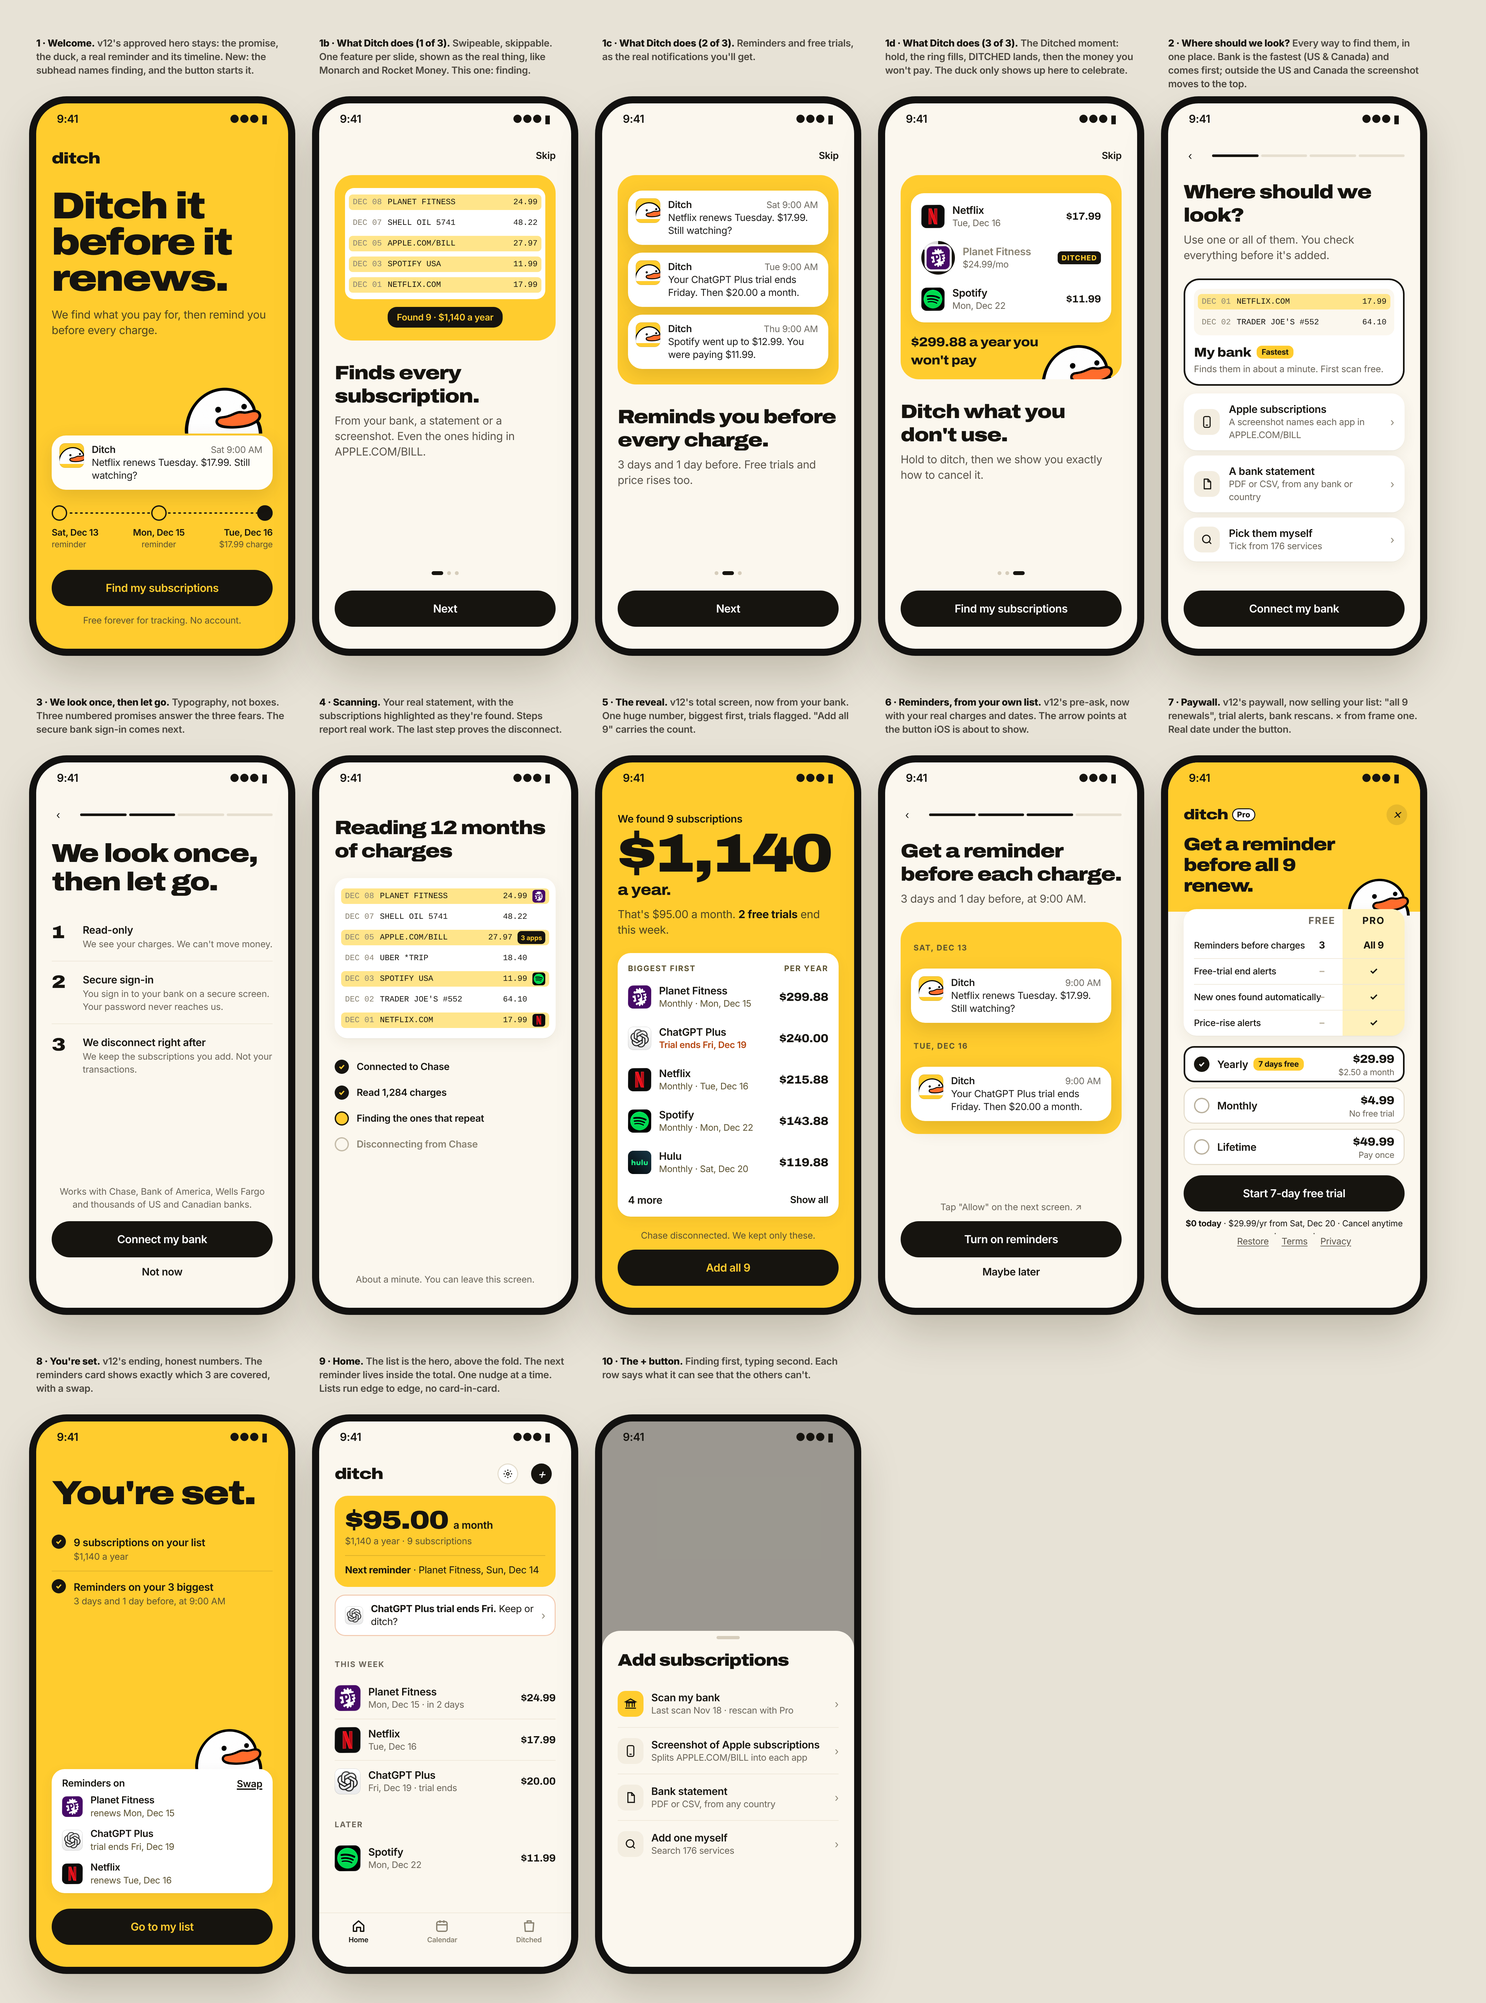
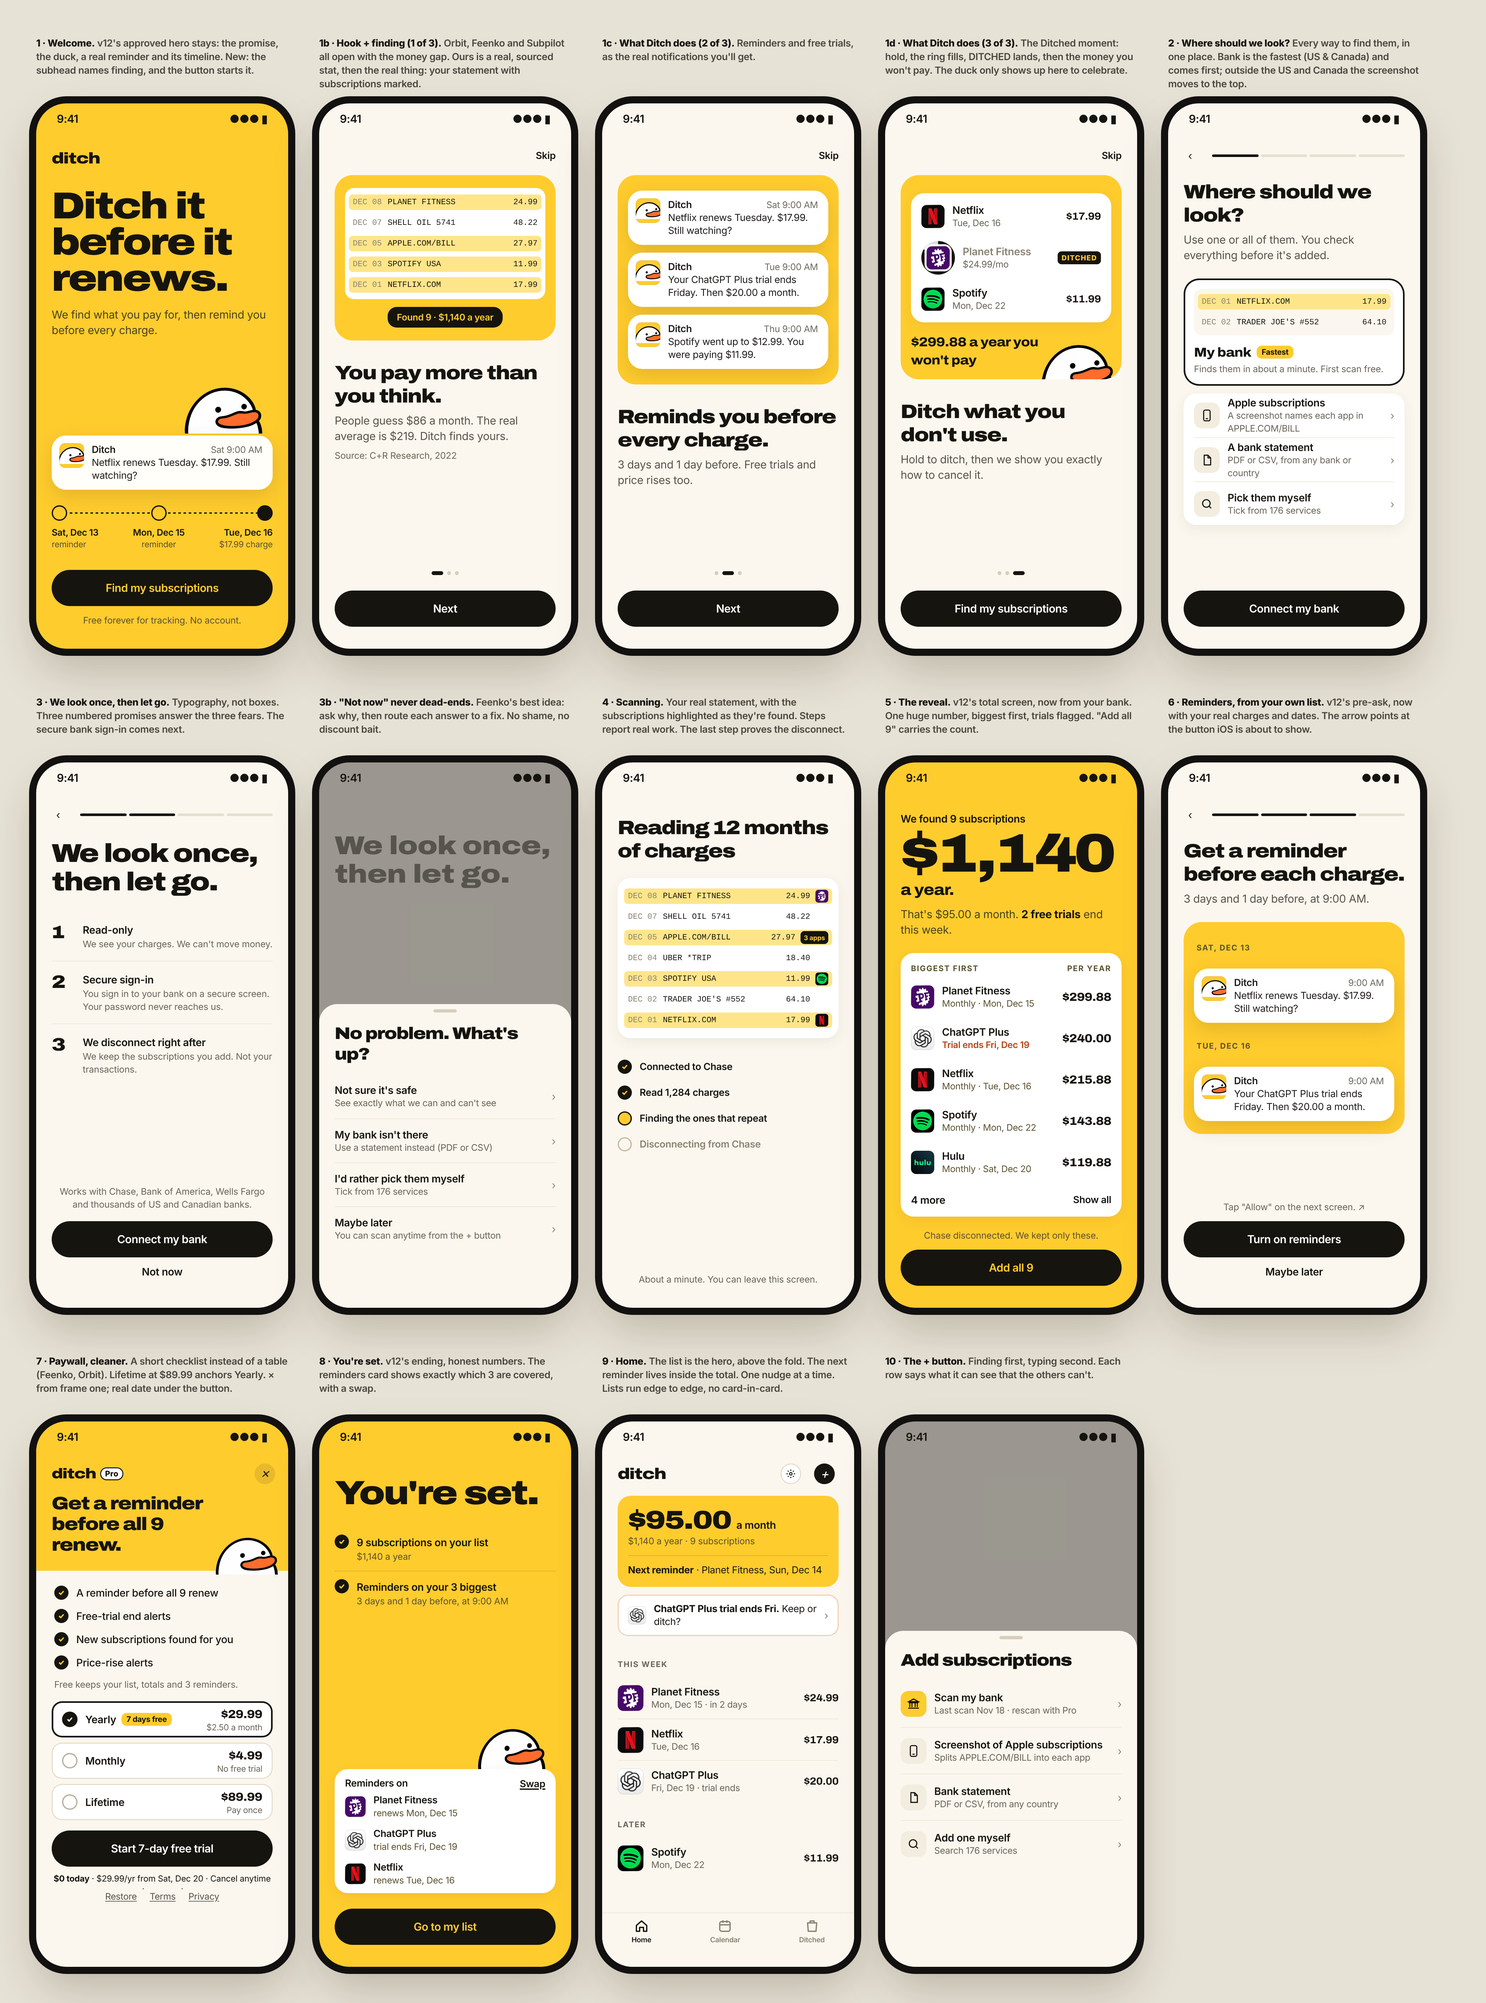
Design v16: AppKittie onboarding research applied (stat hook, exit sheet, checklist paywall, cleaner options); lifetime $89.99 (#65)
Claude-Session: https://claude.ai/code/session_01Q8GFjWCZXwnj2nAcxjTkxh

diff --git a/design/v16/mock.html b/design/v16/mock.html
@@ -76,7 +76,7 @@
 
 
 <!-- F1 -->
-<div class="cell"><div class="cap"><b>1b · What Ditch does (1 of 3).</b> Swipeable, skippable. One feature per slide, shown as the real thing, like Monarch and Rocket Money. This one: finding.</div>
+<div class="cell"><div class="cap"><b>1b · Hook + finding (1 of 3).</b> Orbit, Feenko and Subpilot all open with the money gap. Ours is a real, sourced stat, then the real thing: your statement with subscriptions marked.</div>
 <div class="phone i12 cream"><div class="sb"><span>9:41</span><span>●●● ▮</span></div><div class="scr">
  <div style="display:flex;justify-content:flex-end;height:44px;align-items:center"><span class="label">Skip</span></div>
  <div class="gap8"></div>
@@ -92,9 +92,11 @@
   <div style="display:flex;justify-content:center"><span class="pill" style="background:#16140F;color:#FFCC2E;height:32px;padding:0 14px;font-size:14px">Found 9 · $1,140 a year</span></div>
  </div>
  <div class="gap32"></div>
- <h1 class="title">Finds every subscription.</h1>
+ <h1 class="title">You pay more than you think.</h1>
  <div class="gap8"></div>
- <p class="lead">From your bank, a statement or a screenshot. Even the ones hiding in APPLE.COM/BILL.</p>
+ <p class="lead">People guess $86 a month. The real average is $219. Ditch finds yours.</p>
+ <div class="gap8"></div>
+ <p class="sub">Source: C+R Research, 2022</p>
  <div class="grow"></div>
  <div class="dots"><i class="on"></i><i></i><i></i></div>
  <div class="gap24"></div>
@@ -169,11 +171,10 @@
   <p class="sub" style="margin-top:2px">Finds them in about a minute. First scan free.</p>
  </div>
  <div class="gap12"></div>
- <div class="opt2"><span class="iconsq"><svg width="20" height="20" viewBox="0 0 24 24" fill="none" stroke="#16140F" stroke-width="2" stroke-linejoin="round"><rect x="6" y="2" width="12" height="20" rx="3"/><path d="M10 18h4"/></svg></span><div class="n"><b>Apple subscriptions</b><span>A screenshot names each app in APPLE.COM/BILL</span></div><span style="color:#8A8372">›</span></div>
- <div class="gap8"></div>
- <div class="opt2"><span class="iconsq"><svg width="20" height="20" viewBox="0 0 24 24" fill="none" stroke="#16140F" stroke-width="2" stroke-linejoin="round"><path d="M7 3h7l5 5v13H7z"/><path d="M14 3v5h5"/></svg></span><div class="n"><b>A bank statement</b><span>PDF or CSV, from any bank or country</span></div><span style="color:#8A8372">›</span></div>
- <div class="gap8"></div>
- <div class="opt2"><span class="iconsq"><svg width="20" height="20" viewBox="0 0 24 24" fill="none" stroke="#16140F" stroke-width="2" stroke-linejoin="round"><circle cx="11" cy="11" r="7"/><path d="M20 20l-4-4"/></svg></span><div class="n"><b>Pick them myself</b><span>Tick from 176 services</span></div><span style="color:#8A8372">›</span></div>
+ <div class="card" style="padding:0 16px"><div class="hrow" style="height:68px"><span class="iconsq"><svg width="20" height="20" viewBox="0 0 24 24" fill="none" stroke="#16140F" stroke-width="2" stroke-linejoin="round"><rect x="6" y="2" width="12" height="20" rx="3"/><path d="M10 18h4"/></svg></span><div class="n"><b>Apple subscriptions</b><span>A screenshot names each app in APPLE.COM/BILL</span></div><span style="color:#8A8372">›</span></div>
+  <div class="hrow" style="height:68px"><span class="iconsq"><svg width="20" height="20" viewBox="0 0 24 24" fill="none" stroke="#16140F" stroke-width="2" stroke-linejoin="round"><path d="M7 3h7l5 5v13H7z"/><path d="M14 3v5h5"/></svg></span><div class="n"><b>A bank statement</b><span>PDF or CSV, from any bank or country</span></div><span style="color:#8A8372">›</span></div>
+  <div class="hrow" style="height:68px"><span class="iconsq"><svg width="20" height="20" viewBox="0 0 24 24" fill="none" stroke="#16140F" stroke-width="2" stroke-linejoin="round"><circle cx="11" cy="11" r="7"/><path d="M20 20l-4-4"/></svg></span><div class="n"><b>Pick them myself</b><span>Tick from 176 services</span></div><span style="color:#8A8372">›</span></div>
+ </div>
  <div class="grow"></div>
  <div class="cta">Connect my bank</div>
 </div></div></div>
@@ -195,6 +196,22 @@
  <div class="gap16"></div>
  <div class="cta">Connect my bank</div>
  <div class="txtbtn">Not now</div>
+</div></div></div>
+
+
+<!-- 3b NOT NOW -->
+<div class="cell"><div class="cap"><b>3b · "Not now" never dead-ends.</b> Feenko's best idea: ask why, then route each answer to a fix. No shame, no discount bait.</div>
+<div class="phone i12 cream" style="--sheet:#FBF7EE"><div class="sb"><span>9:41</span><span>●●● ▮</span></div>
+<div class="scr" style="opacity:.5"><div class="gap48"></div><h1 class="disp" style="font-size:40px;line-height:44px">We look once, then let go.</h1></div>
+<div class="scrim"></div>
+<div class="sheet" style="height:470px;padding:0 24px 34px">
+ <div class="grab"></div><div class="gap16"></div>
+ <h2 class="title" style="font-size:26px;line-height:32px">No problem. What's up?</h2>
+ <div class="gap16"></div>
+ <div class="hrow" style="height:68px"><div class="n"><b>Not sure it's safe</b><span>See exactly what we can and can't see</span></div><span style="color:#8A8372">›</span></div>
+ <div class="hrow" style="height:68px"><div class="n"><b>My bank isn't there</b><span>Use a statement instead (PDF or CSV)</span></div><span style="color:#8A8372">›</span></div>
+ <div class="hrow" style="height:68px"><div class="n"><b>I'd rather pick them myself</b><span>Tick from 176 services</span></div><span style="color:#8A8372">›</span></div>
+ <div class="hrow" style="height:68px"><div class="n"><b>Maybe later</b><span>You can scan anytime from the + button</span></div><span style="color:#8A8372">›</span></div>
 </div></div></div>
 
 <!-- 4 SCANNING -->
@@ -275,7 +292,7 @@
 </div></div></div>
 
 <!-- 7 PAYWALL -->
-<div class="cell"><div class="cap"><b>7 · Paywall.</b> v12's paywall, now selling your list: "all 9 renewals", trial alerts, bank rescans. × from frame one. Real date under the button.</div>
+<div class="cell"><div class="cap"><b>7 · Paywall, cleaner.</b> A short checklist instead of a table (Feenko, Orbit). Lifetime at $89.99 anchors Yearly. × from frame one; real date under the button.</div>
 <div class="phone i12 cream" style="--ctl:#E3DBCA">
 <div class="sb" style="z-index:50"><span>9:41</span><span>●●● ▮</span></div>
 <div class="scr" style="padding:0">
@@ -287,20 +304,13 @@
   <div class="gap24"></div>
  </div>
  <div style="padding:0 24px;margin-top:-4px">
-  <div class="card cmp" style="border-radius:20px">
-   <div class="procol" style="width:96px"></div>
-   <div class="tr hd" style="height:36px"><span class="f"></span><span class="c eyebrow" style="width:64px">Free</span><span class="c eyebrow" style="width:96px;color:#16140F">Pro</span></div>
-   <div class="tr" style="height:40px"><span class="f">Reminders before charges</span><span class="c" style="width:64px">3</span><span class="c" style="width:96px">All 9</span></div>
-   <div class="tr" style="height:40px"><span class="f">Free-trial end alerts</span><span class="c" style="width:64px;color:#B9B09D">–</span><span class="c" style="width:96px">✓</span></div>
-   <div class="tr" style="height:40px"><span class="f">New ones found automatically</span><span class="c" style="width:64px;color:#B9B09D">–</span><span class="c" style="width:96px">✓</span></div>
-   <div class="tr" style="height:40px"><span class="f">Price-rise alerts</span><span class="c" style="width:64px;color:#B9B09D">–</span><span class="c" style="width:96px">✓</span></div>
-  </div>
+  <div style="padding:20px 4px 0"><div style="display:flex;gap:12px;align-items:center;height:36px"><span class="dot ok" style="width:22px;height:22px"><svg width="12" height="12" viewBox="0 0 24 24" fill="none" stroke="#FFCC2E" stroke-width="4"><path d="M5 12l5 5 9-10"/></svg></span><span class="body" style="font-size:16px;font-weight:500">A reminder before all 9 renew</span></div><div style="display:flex;gap:12px;align-items:center;height:36px"><span class="dot ok" style="width:22px;height:22px"><svg width="12" height="12" viewBox="0 0 24 24" fill="none" stroke="#FFCC2E" stroke-width="4"><path d="M5 12l5 5 9-10"/></svg></span><span class="body" style="font-size:16px;font-weight:500">Free-trial end alerts</span></div><div style="display:flex;gap:12px;align-items:center;height:36px"><span class="dot ok" style="width:22px;height:22px"><svg width="12" height="12" viewBox="0 0 24 24" fill="none" stroke="#FFCC2E" stroke-width="4"><path d="M5 12l5 5 9-10"/></svg></span><span class="body" style="font-size:16px;font-weight:500">New subscriptions found for you</span></div><div style="display:flex;gap:12px;align-items:center;height:36px"><span class="dot ok" style="width:22px;height:22px"><svg width="12" height="12" viewBox="0 0 24 24" fill="none" stroke="#FFCC2E" stroke-width="4"><path d="M5 12l5 5 9-10"/></svg></span><span class="body" style="font-size:16px;font-weight:500">Price-rise alerts</span></div><p class="sub" style="margin-top:6px">Free keeps your list, totals and 3 reminders.</p></div>
   <div class="gap16"></div>
   <div class="plan on"><span class="radio"><svg width="12" height="12" viewBox="0 0 24 24" fill="none" stroke="#fff" stroke-width="4"><path d="M5 12l5 5 9-10"/></svg></span><span class="nm">Yearly <span class="tag">7 days free</span></span><span class="pr"><b class="num">$29.99</b><small>$2.50 a month</small></span></div>
   <div class="gap8"></div>
   <div class="plan"><span class="radio"></span><span class="nm">Monthly</span><span class="pr"><b class="num">$4.99</b><small>No free trial</small></span></div>
   <div class="gap8"></div>
-  <div class="plan"><span class="radio"></span><span class="nm">Lifetime</span><span class="pr"><b class="num">$49.99</b><small>Pay once</small></span></div>
+  <div class="plan"><span class="radio"></span><span class="nm">Lifetime</span><span class="pr"><b class="num">$89.99</b><small>Pay once</small></span></div>
   <div class="gap16"></div>
   <div class="cta">Start 7-day free trial</div>
   <div class="gap8"></div>

diff --git a/docs/DECISIONS.md b/docs/DECISIONS.md
@@ -69,6 +69,7 @@ The source of truth for Ditch. Copied from `jjman2321/MMTEST` (`docs/ditch/DECIS
 | 62 | Audit calls (owner, Nov 16) | **Hold to ditch:** only the logo and its ring grow while you hold; the name and price never move (rule 8). **Paywall table:** add a "Price watch" row (it works in this build, #45); the Lock Screen widget row shows itself once the widget ships; no row for the 30-day yearly warning. On the regular SE (4 rows) the table shows Track, Reminders, Pick reminder days, Price watch. **Onboarding animations** (notification cards springing in, the total line rising) stay as approved. **iPhone SE with Display Zoom (320 x 568):** the paywall and every onboarding step fit with no scrolling (smaller titles, no duck on the paywall, shorter table labels, no "7 days free" tag on the Yearly card since the button and the line under it say it). | 2026-11-16 |
 | 63 | Find my subscriptions is the launch moat (owner, Nov 16) | Pricing debate: manual trackers earn ~$0.73–0.79 per download whatever the free limit; the top earners sell "we find your subscriptions". So v1 launches with honest, on-phone finding: Apple subscriptions screenshot (with trials), Apple Card Recurring and other subscription-list screenshots, statement CSV/OFX (then PDF), the where-subs-hide checklist, all ending in a check-and-confirm list. Free once in onboarding (#34), then Pro. No bank sync at launch (keeps "Data Not Collected"; v3 paid add-on at most). Prices stay $29.99/yr · $4.99/mo · $49.99 lifetime; free tier unchanged for now. Research: `docs/research/find-subs-2026-11-16.md`. Engine: `src/import/`. Mockups: `design/find-subs/`. | 2026-11-16 |
 | 64 | v1 launches with Plaid bank scan (owner, Nov 18: "ok i want v1 with plaid"; "no need to mention plaid in ui") | **Ditch's own screens never name Plaid** (Plaid's own sign-in screens still show its name; the privacy policy names it). Replaces the "no bank sync at launch" part of #63 and the "no backend, no bank link" stack rule. **US/Canada banks via Plaid** (Stripe Financial Connections as fallback if Plaid refuses an Egypt-based founder's US LLC). Buy **Transactions only**; Ditch's own repeat detector (`src/import/statement.ts`) finds the subscriptions on the phone. Default flow: **connect → scan → disconnect** (`/item/remove`), so no ongoing per-bank fee and no stored transactions. Small backend: a new Supabase project with Edge Functions (link token, token exchange, transactions pull, remove, StoreKit receipt check, Plaid webhooks); the access token is encrypted and deleted after the scan. **Privacy label changes** from "Data Not Collected" to "Data Linked to You: Financial Info" (bank scan users); privacy policy and the "never claim" list get updated (still never "we cancel for you"). Outside US/Canada: the on-phone finder (screenshots, statements). Still open (owner): the find-results paywall and lock (#11, #16/#34, #24) and the lifetime price. Research: `docs/research/launch-vs-autofind-2026-11-18.md`, `finder-apps-2026-11-18.md`. Plan: `docs/plans/plaid-v1.md`. | 2026-11-18 |
+| 65 | Lifetime goes to $89.99 (owner, Nov 18: "add lifetime but like 89.99") | Anchors Yearly ($29.99, ~3×). Lifetime covers Pro features but **not ongoing bank sync** (costs money every month); it includes one bank scan a year. Replaces the $49.99 in #12. | 2026-11-18 |
 | 13 | Rewards | **No streaks, badges or points.** Reward real results, never app opens. Allowed: money you're no longer paying ("You're saving $431 a year"; never "saved" or "kept", since Ditch can't see the bank), finishing setup ("Reminders 2 of 3 set"), one celebration per ditch, milestones tied to real money ("Saving $500 a year"). If we ever want a streak-like hook: "months with no surprise charges", which doesn't need the app to be opened. Why: Ditch succeeds when people open it rarely and save money; streaks turn into nagging (Tim Gabe gamification research, `docs/research/tim-gabe-notes.md`). | 2026-11-09 |
 
 ## Roadmap

diff --git a/docs/research/ux-overhaul/D-appkittie-onboarding.md b/docs/research/ux-overhaul/D-appkittie-onboarding.md
@@ -1,0 +1,12 @@
+# AppKittie onboarding captures (Nov 18, 2026)
+Endpoint: `GET /api/v1/onboarding/screens` (1 credit per app; 10 credits used). Contact sheets in `appkittie-onboarding/`.
+
+| App | Screens | What they do | What we took |
+|---|---|---|---|
+| **Feenko** | 25 | Logo-cloud hero; reviews wall; real list and detail product shots; quiz (how many subs / how many you use); "Did you know? 8.3 unwanted subs", "$1,416 a year"; early paywall as a checklist; 6-step feature tour; notification ask with a checklist; email connect with 3 trust lines; **"Quick one, why not now?" exit sheet**; source picker ("Bills from email / Bank & card / Browse / Enter manually") | Exit sheet that routes each answer to a fix; checklist paywall; source picker with all options |
+| **Subpilot** | 16 | Dark quiz funnel (age, which subs as chips, how often you check, trials); FTC stat chart; "one surprise charge is a warning sign"; email gate; personalised "people like you have 11"; with/without comparison; paywall monthly $24.99 or weekly | The money-gap hook, but sourced and short; skip the quiz and email gate |
+| **Orbit** (closest rival) | 11 | Welcome; "On average we overspend ₹1,20,000 a year on forgotten subs" + "Show me an example"; pick list with prices → "See my yearly total"; "How many others are you paying for quietly?"; notification ask; import options (photos, file, custom); laurels + "customers save ₹20,000"; Free vs Plus table; lifetime early-bird $24.99 on close | The money-gap stat slide; keep pick-list → total |
+| **Rocket Money** | 13 | Welcome product shot + "$1.3 billion saved · 186K+ 5-star ratings"; account creation; notification ask with "Tap Allow on the next screen" arrow | Product-shot welcome; "Tap Allow" arrow (already in v16) |
+| Subtrack, ReSubs, SubTracky, Cancel Subscriptions & Refund | 5–11 | Simpler feature carousels and paywalls | — |
+
+Not copied: fake urgency, weekly-first plans, email gates before value, unearned social proof (we add ratings only once they're real).
